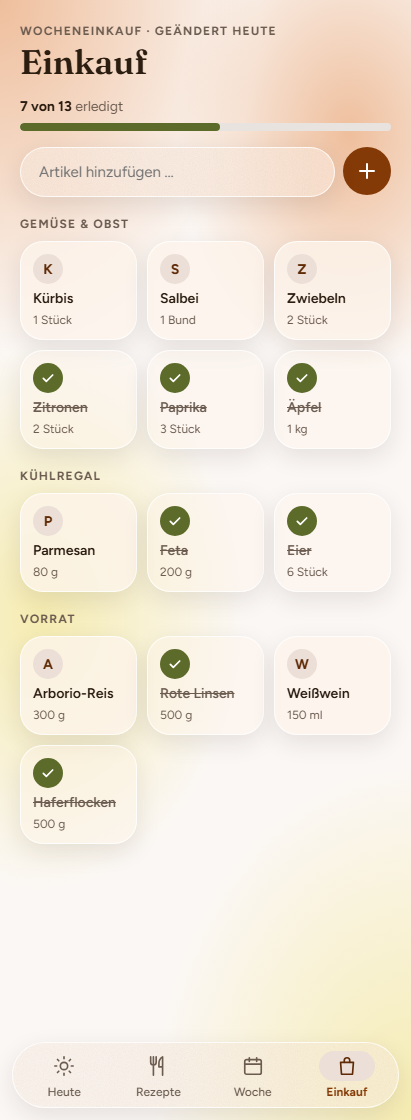
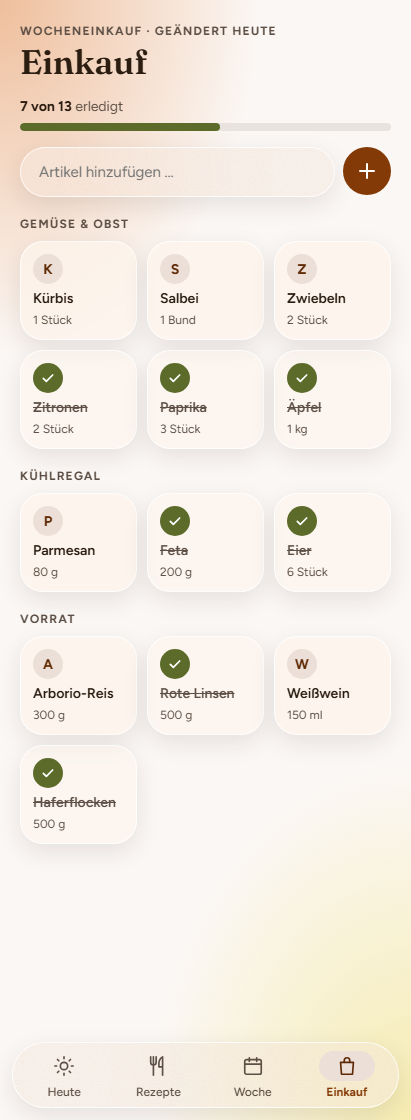
Design mit dem Code Review abgeglichen
Nach dem Merge von main (bis #164): Farbwahl mit FoodyAbstaende, Rezeptdetail-
Bilder neu aufgenommen. Entwürfe an die App angeglichen (Farben aus
Farbwelt.kt, zwei Verlaufsflecken, kcal für die gewählten Portionen,
„Darstellung“ ohne Tablet-Abgleich) und neu gerendert. Abgleich und Absprachen
mit der Aufräum-Session in docs/design/milchglas/abgleich.md.

Changed region(s): [[0.5547, 0.0, 1.0, 0.2812], [0.0, 0.375, 0.4088, 0.7188]]

diff --git a/docs/design/milchglas/abgleich.md b/docs/design/milchglas/abgleich.md
@@ -1,0 +1,46 @@
+# Abgleich mit dem Code Review – 1. November 2026
+
+Der Design-Branch (Farbwelten und Milchglas, ADR 0015) ist mit `main` bis #164 zusammengeführt. Die Änderungen aus dem
+Code Review und dem Aufräumplan sind die Grundlage; Farbwelt, Glas und Formen kamen obendrauf. Mit der Aufräum-Session
+abgestimmt (Nachrichten zwischen den Chats). Der Nutzer hat gesagt: selbst durcharbeiten, nicht auf Freigabe warten,
+dokumentieren.
+
+## Zusammenführung im Code
+
+| Stelle | Aus dem Code Review | Gelöst |
+|---|---|---|
+| `FoodyNavigation` | #153: Abstände über `FoodyAbstaende`, Leiste `RoundedCornerShape(34.dp)` | Abstände aus #153, Form `FoodyFormen.leiste` (39 dp, Rund) |
+| `Rezeptkarte` | #153: Abstände über `FoodyAbstaende` | Abstände aus #153; Herz `herzFarbe(farbwelt)`, Platzhalter aus der Farbwelt |
+| `Einstellungsschluessel` | toter Schlüssel `EINKAUF_ANSICHT` entfernt | entfernt lassen, `FARBWELT` neu |
+| `EinstellungenAbschnitte` | #153: `FoodyAbstaende`; #145: nicht Übertragenes unter Konto | beides übernommen; Darstellung mit Farbe und Modus |
+| `EinstellungenScreen` | #162: Tagesziel speichert erst bei „Fertig“ | übernommen; Darstellungsabschnitt mit Farbwelt |
+| `EinstellungenViewModel` | #147: `SolangeAppOffen` statt `Eagerly` | `SolangeAppOffen`, Farbwelt im selben Fluss |
+| `FarbweltWahl` (neu) | Regel aus #153: Abstände nur über `FoodyAbstaende` | `s1`/`s3` statt `4.dp`/`12.dp` |
+| `docs/architecture.md` | Specs archiviert, `FoodyAbstaende`-Regel, `FoodyBreiten` | beides in einem Absatz |
+| Roborazzi | #148 neue Rezeptdetail-Bilder | alle Bilder nach dem Merge neu aufgenommen |
+
+## Entwürfe angeglichen
+
+- **Rezeptdetail (#148):** Im Kopf steht neben „kcal / Portion“ auch „… kcal für N Portionen“; bei einer Portion
+  entfällt die Angabe.
+- **Farben:** Der Canvas verwendet jetzt die Werte aus `Farbwelt.kt`. Der Nebentext im hellen Modus ist dunkler,
+  Heidelbeere dunkel hat Primär `#8D91F2`, Safran und Spur entsprechen der App.
+- **Verlauf:** nur noch die zwei Flecken der App, oben links und unten rechts. Die beiden zusätzlichen sind entfallen.
+- **Einstellungen:** Der Abschnitt heißt wie in der App „Darstellung“. Der Hinweis „Wird mit dem Tablet abgeglichen“
+  ist entfallen, die Farbwahl wird nicht synchronisiert (ADR 0015).
+- Alle 20 Bilder wurden neu gerendert, der Canvas „Foody Design“ ist neu veröffentlicht.
+
+## Bewusst nur in der App (nicht im Entwurf)
+
+- Konto: Liste „nicht übertragen“ in Fehlerfarbe (#145). Sie erscheint nur, wenn ein Abgleich gescheitert ist.
+- Rezeptkopf mindestens 260 dp und mit dem Namen wachsend, Pfeil und Name untereinander (#150). Der Entwurf zeigt den
+  Normalfall.
+- TalkBack-Überschriften, Auswahl und Links (#162) sind unsichtbar.
+
+## Abgesprochen mit der Aufräum-Session
+
+- Q1, Q2 und Q4 sind mit #153 erledigt; an Farben, Formen und Glaswerten ändert die Aufräum-Session nichts.
+- C8 (v1-Sicherungen), E7 (Linter-Baseline) und Q7 (`:baselineprofile`) laufen unabhängig. Sie berühren
+  `DarstellungAbschnitt` und den Einstellungszustand nicht.
+- **Q8** (Fraunces auf Latein beschneiden) und **E5** (Referenzbilder kleiner aufnehmen) kommen erst nach dem Merge
+  dieses Branches, damit alle Bilder nur einmal neu aufgenommen werden.

diff --git a/docs/design/milchglas/README.md b/docs/design/milchglas/README.md
@@ -1,7 +1,7 @@
 # Design „Milchglas“ – Entwurf vom 31. Oktober 2026
 
 Gerenderte Entwürfe aus dem Design-Canvas „Foody Design“ (Handy, 411 dp breit), Standardfarbe Mango.
-Grundlage: Oberfläche Milchglas, Formen Rund, Farbe frei wählbar unter Einstellungen › Erscheinungsbild.
+Grundlage: Oberfläche Milchglas, Formen Rund, Farbe frei wählbar unter Einstellungen › Darstellung. Stand nach dem Abgleich mit dem Code Review: [abgleich.md](abgleich.md).
 
 ## Bildschirme
 
@@ -21,12 +21,12 @@ Grundlage: Oberfläche Milchglas, Formen Rund, Farbe frei wählbar unter Einstel
 ## Material und Formen
 
 - **Milchglas:** Glasflächen mit Unschärfe 40 dp, feinem Korn (Rauschen 8 % hell, 5 % dunkel) und Lichtkante (weiß 78 % hell, 12 % dunkel). Deckkraft leicht 0,55/0,50, dicht 0,78/0,72, auf Bildern 0,92. Glas ist mit 4 % der Hauptfarbe getönt.
-- **Verlauf:** Ton 1 oben links, Ton 2 unten rechts über dem Grund, beide aus der Hauptfarbe (Ton 2 um 28° verschoben, bei Grün Richtung Gelb). Die Bilder zeigen den Canvas mit zwei zusätzlichen Flecken; die App bleibt bei zwei, weil überlagerte Flecken den Kontrast unter AA drücken.
+- **Verlauf:** Ton 1 oben links, Ton 2 unten rechts über dem Grund, beide aus der Hauptfarbe (Ton 2 um 28° verschoben, bei Grün Richtung Gelb). Bilder und App zeigen nur diese zwei Flecken; zwei weitere aus dem ersten Canvas-Stand drückten den Kontrast unter AA.
 - **Formen Rund:** Ecken klein 14 dp, mittel 23 dp, groß 32 dp, Leiste 39 dp; Knöpfe, Chips und Kreise als Pille.
 
 ## Farben (Stand App)
 
-Maßgeblich ist `Farbwelt.kt` in `:core:designsystem`; der Kontrast-Test prüft jede Farbwelt hell und dunkel (WCAG 2.2 AA ohne Unschärfe, gegen Grund und volle Stellen des Verlaufs, Glas per Alpha gemischt; Text ≥ 4,5 : 1, Grafik ≥ 3 : 1). Gegenüber den Bildern ist der Nebentext im hellen Modus etwas dunkler, weil er auch direkt auf dem Verlauf AA halten muss.
+Maßgeblich ist `Farbwelt.kt` in `:core:designsystem`; der Kontrast-Test prüft jede Farbwelt hell und dunkel (WCAG 2.2 AA ohne Unschärfe, gegen Grund und volle Stellen des Verlaufs, Glas per Alpha gemischt; Text ≥ 4,5 : 1, Grafik ≥ 3 : 1). Die Bilder sind mit genau diesen Werten gerendert (Nebentext im hellen Modus dunkler als im ersten Canvas-Stand, weil er auch direkt auf dem Verlauf AA halten muss).
 
 ### Hell
 

diff --git a/docs/superpowers/specs/2026-10-31-farbwelten-milchglas-design.md b/docs/superpowers/specs/2026-10-31-farbwelten-milchglas-design.md
@@ -1,7 +1,8 @@
 # Farbwelten und Milchglas – Design
 
 Stand 2026-10-31. Entscheidung: ADR 0015. Entwürfe: `docs/design/milchglas/` (zehn Bildschirme hell und dunkel,
-Farbtabellen in der `README.md`). Grundlage war der Design-Canvas „Foody Design“.
+Farbtabellen in der `README.md`). Grundlage war der Design-Canvas „Foody Design“. Abgleich mit dem Code Review (main bis #164):
+`docs/design/milchglas/abgleich.md`.
 
 ## Ziel
 
